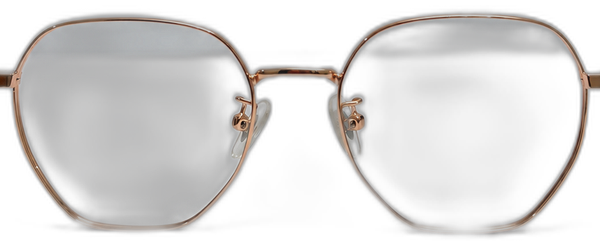
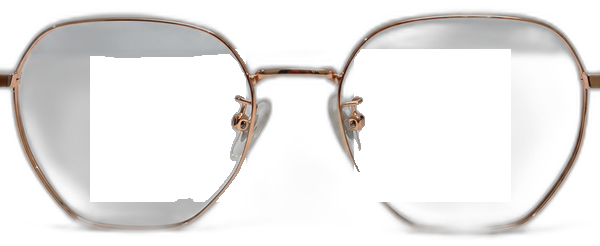
fix(try-on): refine real assets & isolate Try-On to 9 new real frames only
- Fix clubmaster-real.png: preserve complete bottom wire rim and bridge via tight bounding box extraction (height restored from 136px to 204px)
- Calibrate clubmaster-real fitWidthRatio from 1.74 to 1.46 (stops oversized stretching)
- Fix cateye-pastel-real.png: remove nose smudge artifact & restore symmetrical rim curvature
- Fix hexagonal-real.png: remove residual grey film inside left and right lenses (100% transparent interior)
- In Try-On (/try-on): display exclusively the 9 new real glasses (+ Tanpa Kacamata), hiding all legacy 10 frames
- Verified npm run build Exit code 0 (66 routes)

diff --git a/components/try-on/TryOnExperience.tsx b/components/try-on/TryOnExperience.tsx
@@ -37,7 +37,10 @@ interface GlassesMeta {
   excludeFromAiMatch?: boolean;
 }
 
-const manifest = manifestRaw as GlassesMeta[];
+// Only show the 9 new real product photo glasses (+ Tanpa Kacamata) as requested
+const tryOnManifest = (manifestRaw as GlassesMeta[]).filter(
+  (g) => g.id === "none" || g.isRealPhoto === true
+);
 
 export default function TryOnExperience() {
   const searchParams = useSearchParams();
@@ -46,10 +49,10 @@ export default function TryOnExperience() {
   const faceTrackerRef = useRef<FaceTrackerHandle>(null);
   const cameraContainerRef = useRef<HTMLDivElement>(null);
 
-  // Default to first real photo asset if available, else first non-"none" item
+  // Default to first real photo asset (index 1 if none is index 0)
   const initialIndex = useMemo(() => {
-    const realIdx = manifest.findIndex((g) => g.isRealPhoto);
-    return realIdx >= 0 ? realIdx : manifest.length > 1 ? 1 : 0;
+    const realIdx = tryOnManifest.findIndex((g) => g.isRealPhoto);
+    return realIdx >= 0 ? realIdx : 0;
   }, []);
 
   const [selectedIndex, setSelectedIndex] = useState(initialIndex);
@@ -63,7 +66,7 @@ export default function TryOnExperience() {
   const [capturedPhoto, setCapturedPhoto] = useState<string | null>(null);
   const [toastMessage, setToastMessage] = useState<string | null>(null);
 
-  const activeGlasses = manifest[selectedIndex] || manifest[0];
+  const activeGlasses = tryOnManifest[selectedIndex] || tryOnManifest[0];
 
   // Toast feedback helper
   const showToast = useCallback((msg: string) => {
@@ -73,24 +76,23 @@ export default function TryOnExperience() {
     }, 2400);
   }, []);
 
-  // Filter categories
+  // Filter categories for the 9 new real frames
   const categories = useMemo(() => {
-    const list = [
-      { id: "all", label: `Semua (${manifest.length})` },
-      { id: "real", label: `Foto Asli (${manifest.filter((g) => g.isRealPhoto).length})` },
+    const realCount = tryOnManifest.filter((g) => g.isRealPhoto).length;
+    return [
+      { id: "all", label: `Semua (${realCount})` },
       { id: "Cat-Eye", label: "Cat-Eye" },
       { id: "Square", label: "Kotak" },
       { id: "Oval", label: "Oval" },
       { id: "Hexagonal", label: "Hexagonal" },
       { id: "Sunglasses", label: "Sunglasses" },
     ];
-    return list;
   }, []);
 
   const filteredGlasses = useMemo(() => {
-    return manifest.filter((g) => {
+    return tryOnManifest.filter((g) => {
+      if (g.id === "none") return true; // keep Tanpa Kacamata accessible
       if (selectedCategory === "all") return true;
-      if (selectedCategory === "real") return g.isRealPhoto === true;
       if (selectedCategory === "Sunglasses") return g.style === "Sunglasses" || g.style === "Aviator";
       if (selectedCategory === "Square") return g.style === "Square" || g.style === "Semi-Square" || g.style === "Browline";
       return g.style === selectedCategory;
@@ -101,7 +103,7 @@ export default function TryOnExperience() {
   const handleSelectGlasses = useCallback(
     (index: number) => {
       setSelectedIndex(index);
-      const chosen = manifest[index];
+      const chosen = tryOnManifest[index];
       if (chosen && chosen.id !== "none") {
         trackTryOn(chosen.id, chosen.name);
       }
@@ -475,7 +477,7 @@ export default function TryOnExperience() {
           <div className="flex-1 max-h-[380px] lg:max-h-[460px] overflow-y-auto space-y-2 pr-1">
             {filteredGlasses.map((g) => {
               const isSelected = activeGlasses.id === g.id;
-              const globalIndex = manifest.findIndex((m) => m.id === g.id);
+              const globalIndex = tryOnManifest.findIndex((m) => m.id === g.id);
               return (
                 <button
                   key={g.id}
